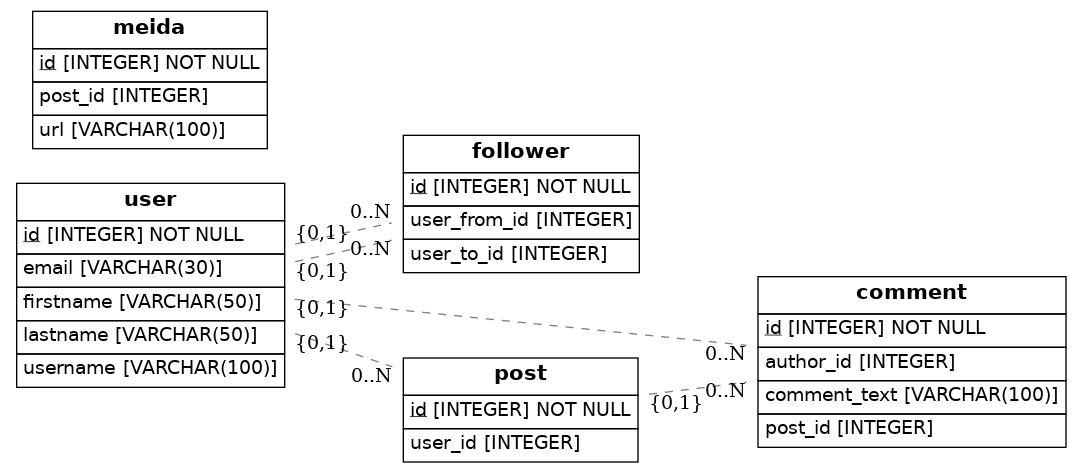
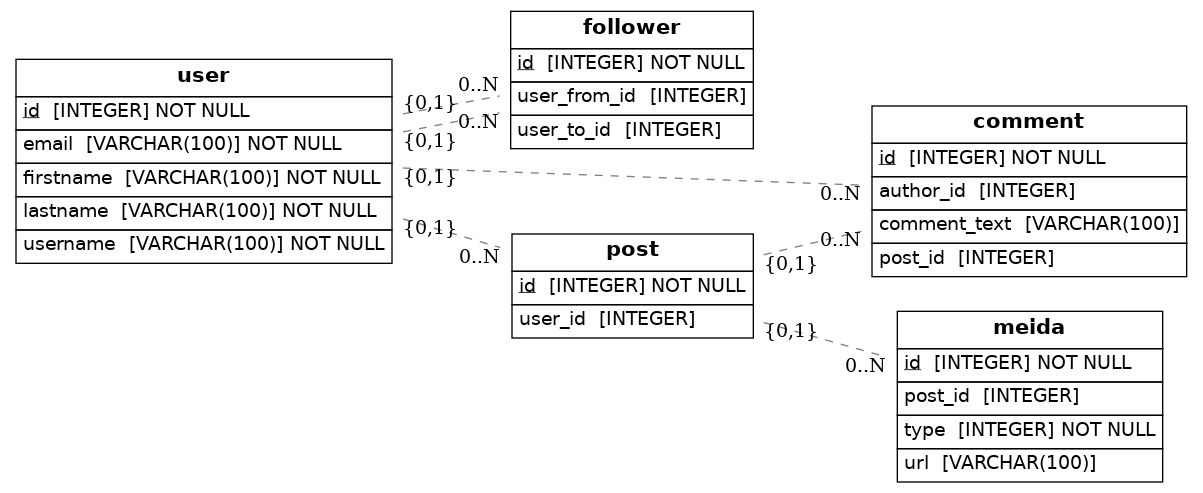
finish

Changed region(s): [[0.0, 0.0, 1.0, 1.0], [0.3053, 0.7696, 0.3663, 0.7992], [0.2747, 0.7104, 0.3358, 0.74]]

diff --git a/src/models.py b/src/models.py
@@ -10,10 +10,14 @@ Base = declarative_base()
 class User(Base):
     __tablename__ = 'user'
     id = Column(Integer, primary_key=True)
-    username = Column(String(100))
-    firstname = Column(String(50))
-    lastname = Column(String(50))
-    email = Column(String(30))
+    username = Column(String(100), unique=True, nullable=False)
+    firstname = Column(String(100), nullable=False)
+    lastname = Column(String(100), nullable=False)
+    email = Column(String(100), unique=True, nullable=False)
+    followers = relationship('follower')
+    posts = relationship('post')
+    comments = relationship('comment')
+
 
 class Follower(Base):
     __tablename__ = 'follower'
@@ -33,13 +37,15 @@ class Post(Base):
     __tablename__ = 'post'
     id = Column(Integer, primary_key=True)
     user_id = Column(Integer, ForeignKey('user.id'))
+    comments = relationship('coment')
+    medias = relationship('media')
 
 class Media(Base):
     __tablename__ = 'meida'
     id = Column(Integer, primary_key=True)
-    #type = Column(enumerate('user.id'))
+    type = Column(Integer, nullable=False)
     url = Column(String(100))
-    post_id = Column(Integer, ForeignKey('post_id'))
+    post_id = Column(Integer, ForeignKey('post.id'))
 
 ## Draw from SQLAlchemy base
 try:
